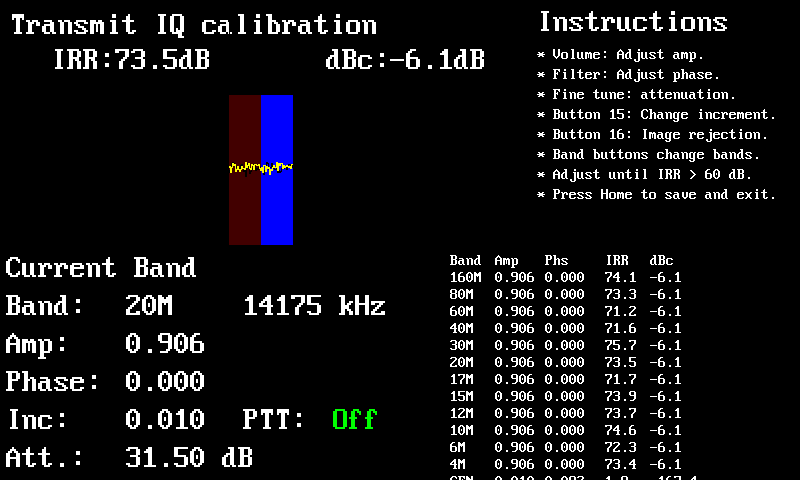
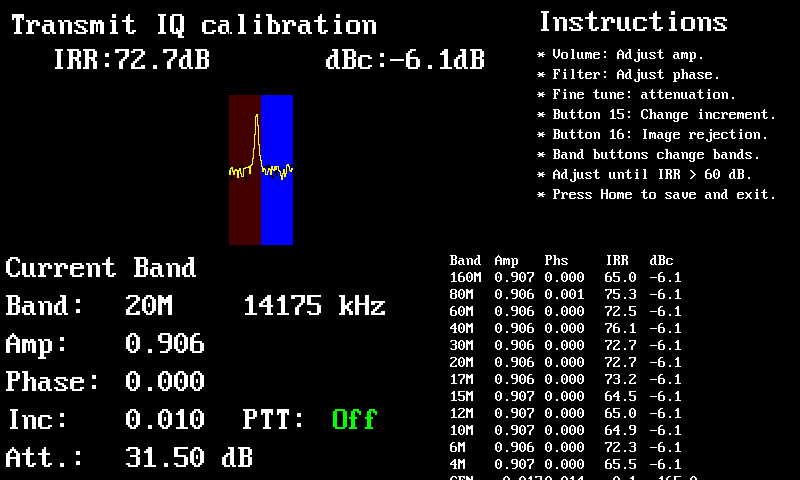
Calibration guide and wiki: Transmit IQ automatic run starts from 160 m
The guide no longer asks the operator to select 160 m before pressing 16;
the dual-VFO screenshots are regenerated with the run started from 40 m on
screen.

Claude-Session: https://claude.ai/code/session_01M4Frwb2CYtA6gxkCZ7v9ad

diff --git a/code/docs/CalibrationGuide/Calibration_Guide.html b/code/docs/CalibrationGuide/Calibration_Guide.html
@@ -317,7 +317,7 @@ ol.steps figure{margin:.8em 0}
 <figure><img src="txiq-entry-dual.png" alt="Transmit IQ calibration screen, dual VFO" loading="lazy"><figcaption><b>Transmit IQ calibration</b> on a dual-VFO radio, not transmitting.</figcaption></figure></li>
 <li><i>Optional:</i> hold the PTT to see where you start. The spectrum shows the wanted tone and, to the other side of the centre, the unwanted sideband; <b>IRR</b> shows the difference and <b>dBc</b> the carrier leak. Release the PTT.
 <figure><img src="txiq-keyed-dual.png" alt="Transmit IQ calibration while transmitting, with IRR shown" loading="lazy"><figcaption><b>Transmitting the test tone</b> into the internal loop. PTT shows On.</figcaption></figure></li>
-<li>Select 160&nbsp;m with <kbd>2</kbd> / <kbd>5</kbd>, then press <kbd>16</kbd>. The radio keys itself and calibrates every band in turn from the band on the screen upwards, then stops transmitting. You do not need to hold the PTT. (To redo only the higher bands, start from the first one you want.)
+<li>Press <kbd>16</kbd>. The radio keys itself and calibrates every band in turn, starting with 160&nbsp;m whichever band is on the screen, then stops transmitting. You do not need to hold the PTT.
 <figure><img src="txiq-auto-dual.png" alt="Transmit IQ automatic calibration in progress" loading="lazy"><figcaption><b>Automatic calibration in progress</b>, on 40&nbsp;m.</figcaption></figure></li>
 <li>When it stops, check the table: each band has its own amplitude and phase, and the <b>IRR</b> it reached.
 <figure><img src="txiq-done-dual.png" alt="Transmit IQ calibration complete" loading="lazy"><figcaption><b>Finished.</b></figcaption></figure></li>

diff --git a/code/test/CalGuideScreenshots_main.cpp b/code/test/CalGuideScreenshots_main.cpp
@@ -240,8 +240,7 @@ static void TransmitIQCalibrationDual(void){
     Shot("txiq-keyed");
     KeyPTT(false);
     Settle(100);
-    // The automatic run starts from the band on the screen
-    SelectBandOnScreen(FIRST_BAND);
+    // Still on 40 m: the automatic run starts from 160 m whatever the band
     Press(16);
     RunUntil([](){ return ED.currentBand[ED.activeVFO] == BAND_40M; }, "TX IQ auto run at 40 m");
     Settle(2000);

diff --git a/code/src/PhoenixSketch/BuildInfo.h b/code/src/PhoenixSketch/BuildInfo.h
@@ -14,7 +14,7 @@
 #ifndef BUILDINFO_H
 #define BUILDINFO_H
 
-#define GIT_COMMIT_HASH "7557763"
+#define GIT_COMMIT_HASH "966a4bd"
 #define BUILD_TIMESTAMP "2026-11-16 07:09:27"
 
 #endif // BUILDINFO_H

diff --git a/wiki/firmware/calibration-state-machines.md b/wiki/firmware/calibration-state-machines.md
@@ -3,7 +3,7 @@ title: Calibration Sub-State-Machines (the 4 generated cal SMs)
 type: module
 status: draft
 created: 2026-06-09
-updated: 2026-11-15
+updated: 2026-11-16
 tags: [state-machine, calibration, statesmith, iq, carrier, power, sweep]
 source_refs: []
 related: ["[[overview]]", "[[hardware-state-machine]]", "[[state-machine-architecture]]", "[[iq-imbalance-correction]]", "[[tx-carrier-null]]", "[[tune-frequency-control]]", "[[persistent-config]]", "[[log-amp-power-detection]]", "[[automatic-power-swr-calibration]]"]
@@ -69,6 +69,12 @@ completed keep their results, and the TX runs queue the `iPTT_RELEASED` they owe
 `CALIBRATE_TX_IQ_MARK` handles `CALIBRATE_EXIT` itself, so HOME with the PTT held also returns
 the mode machine to receive. `TXIQCalibrationAutoActive()` / `RXIQCalibrationAutoActive()`
 report whether a run is in progress.
+
+**Every automatic run starts from the first band.** The run's band counter is reset to
+`FIRST_BAND` whenever the machine enters `STANDBY` (`Reset*CalBand`: on entering the screen,
+after a finished run and after an abort). Until 2026-11-16 the Transmit IQ screen's Band +/−
+handlers also set it (`SetTXIQCurrentBand`, now removed), so a TX run started from the band on
+screen; it now covers every band like the RX run.
 
 **Single vs dual VFO.** Only Transmit IQ differs. Dual-VFO boards loop the TX back into the
 receiver (`RFCalTransmitIQ`, 31.5 dB) and measure IRR/dBc themselves; button 16 runs the sweep,

diff --git a/wiki/log.md b/wiki/log.md
@@ -1582,3 +1582,10 @@ At the user's direction, the single-VFO Transmit IQ procedure takes the analyser
 RF board's TX output, J6 (before the PA), through a cheap 10–20 dB attenuator, instead of from
 the antenna connector through a 20 W attenuator; wattmeter readings in the power calibration are
 described as set with the Filter encoder. Recorded J6 in [[rf-board-electronics]].
+
+## [2026-11-16] decision | Transmit IQ automatic run covers every band, like Receive IQ
+The Transmit IQ automatic run (button 16) started from the band shown on the screen, because the
+screen's Band +/- handlers set the run's band counter (`SetTXIQCurrentBand`). The user asked for
+it to match Receive IQ, which always starts from 160 m: the calls and the setter are removed
+(and the unused `SetTXCarrierCurrentBand`). Test `TXIQAutoRunStartsFromFirstBand`. The guide's
+"select 160 m first" instruction is gone. See [[calibration-state-machines]].
